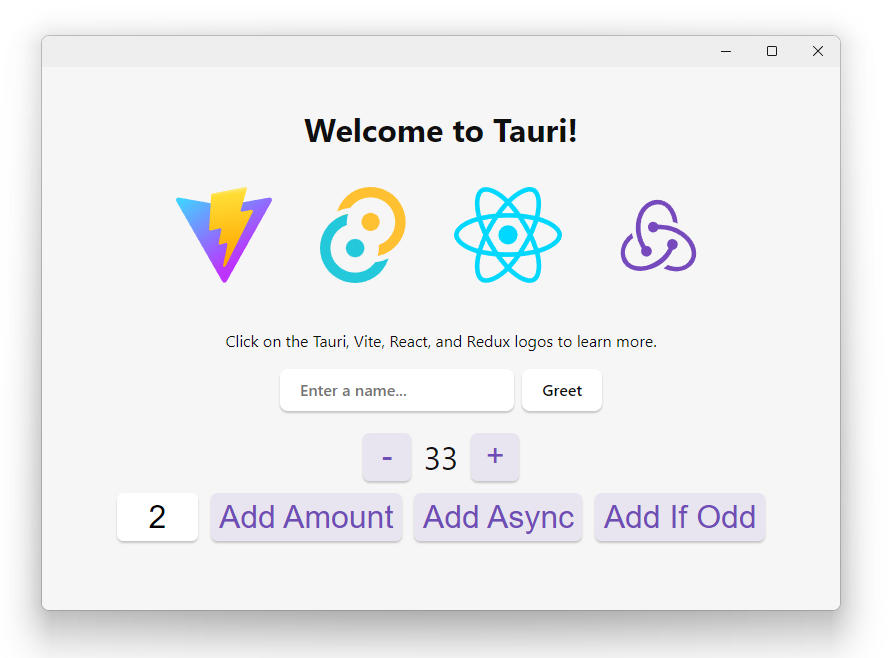
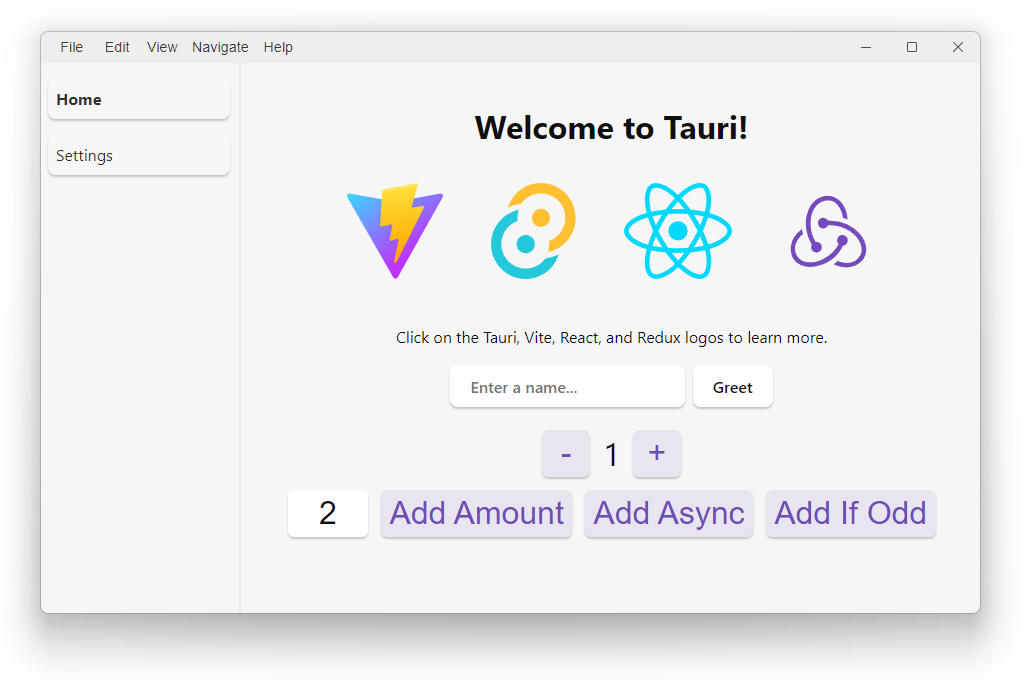
Update README and image

diff --git a/README.md b/README.md
@@ -2,12 +2,16 @@
 
 ![Screenshot of app](image.png)
 
-This repository contains a preconfigured Tauri app including:
+This repository contains a preconfigured Tauri app featuring:
 
-- Basic ESLint/Prettier config
-- Basic unit testing setup with Vitest
-- Custom Windows-style window controls
-- Redux store sample with [redux-persist](https://github.com/rt2zz/redux-persist) for saving application state
+- Interoperable app menu that works in-browser and with native system menus
+- Custom window controls on Windows (enable or disable in settings)
+- Redux store sample setup with [redux-persist](https://github.com/rt2zz/redux-persist) for saving state
+- React Router setup to manage navigation across the app
+- Configuration for [i18next](https://github.com/i18next/i18next) to make localisation easy
+- Basic ESLint, Prettier and Stylelint config
+- Unit testing setup with Vitest
+- Custom theme system
 
 ## Usage
 
